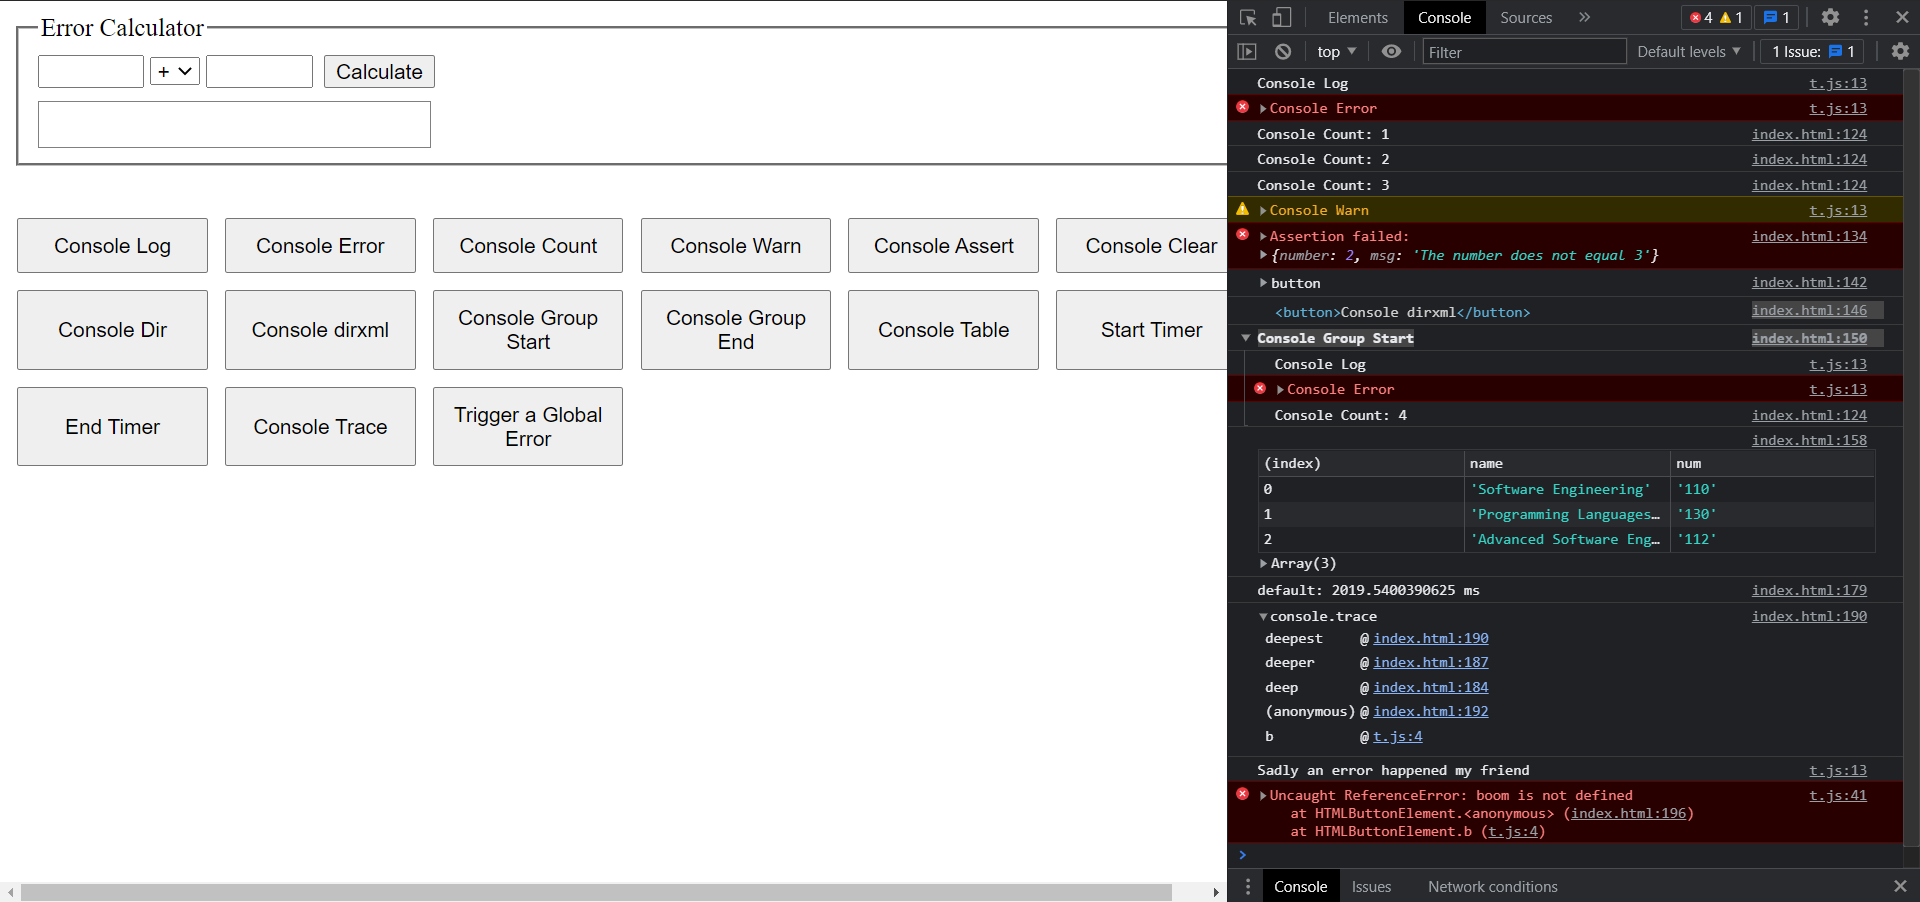
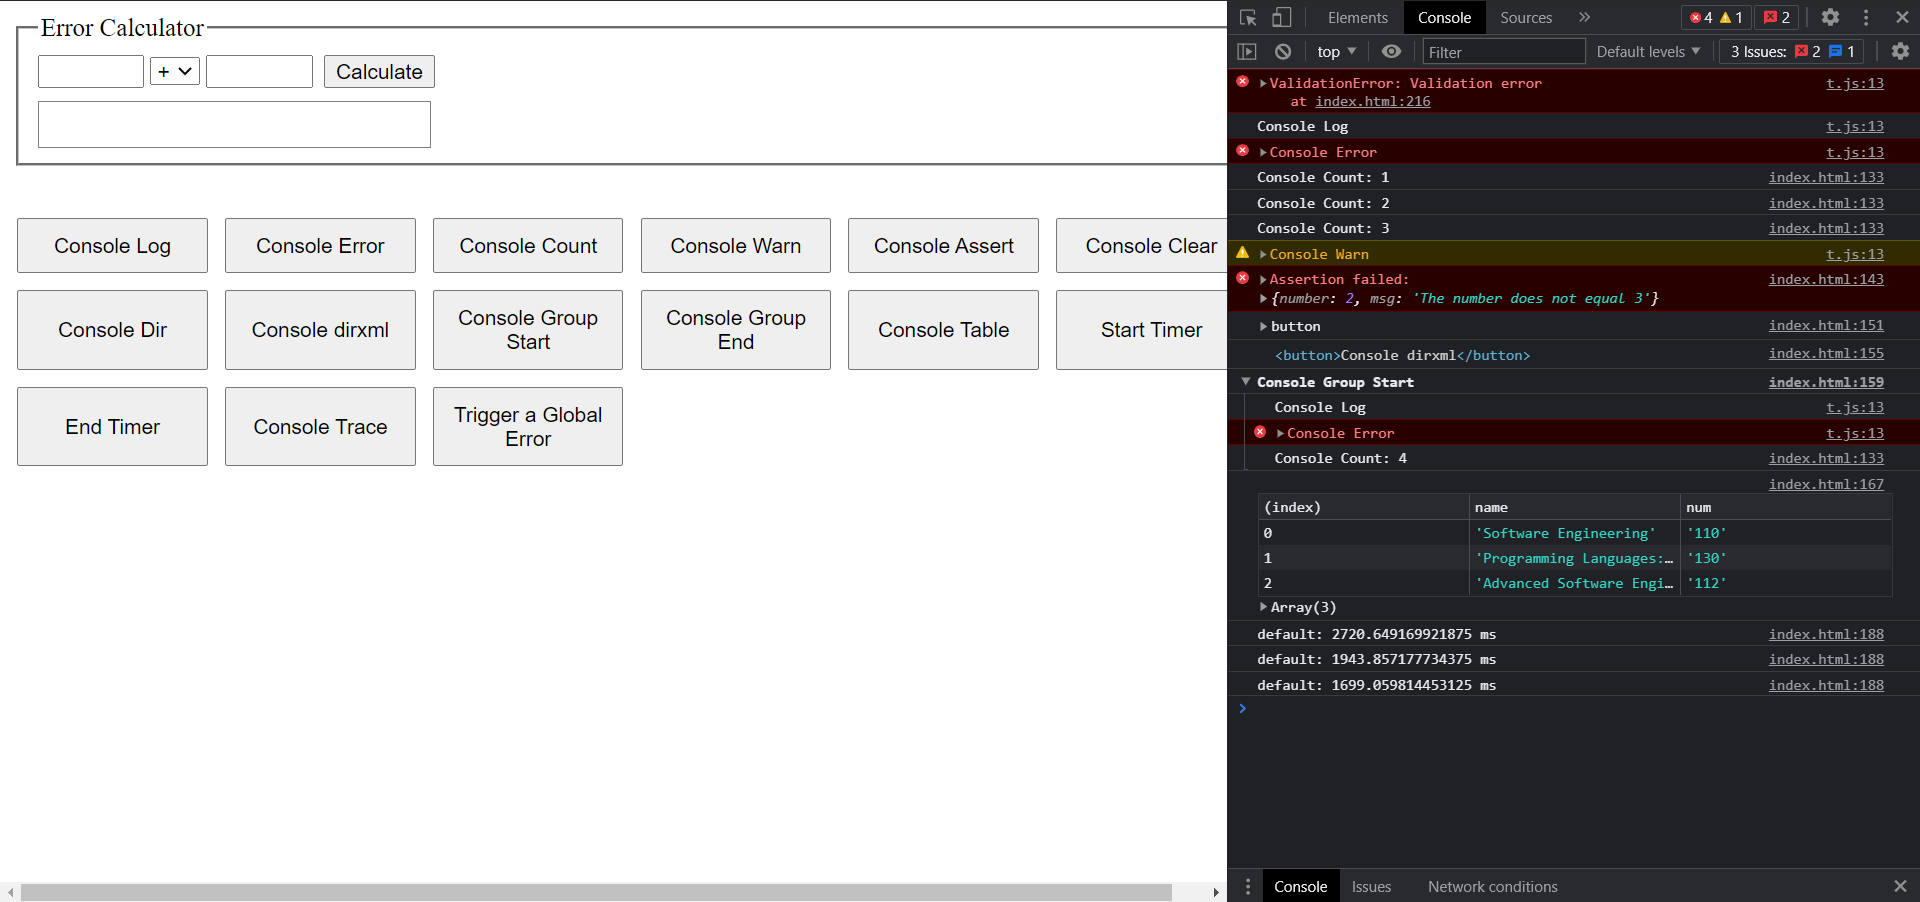
.

diff --git a/index.html b/index.html
@@ -104,30 +104,16 @@
       let firstNum = document.querySelector('#first-num').value;
       let secondNum = document.querySelector('#second-num').value;
       let operator = document.querySelector('#operator').value;
-      output.innerHTML = eval(`${firstNum} ${operator} ${secondNum}`);
-
+      
       try {
-        if(isNaN(firstNum))
-          throw new Error("Invalid firstNum");
+        output.innerHTML = eval(`${firstNum} ${operator} ${secondNum}`);
       } catch (err) {
-        console.error(err.message);
-        TrackJS.track('Invalid firstNum');
+        console.error("Invalid input");
+        TrackJS.track('Invalid input');
+      } finally {
+        console.log("Calculation check finished")
       }
       
-      class ValidationError extends Error {
-        constructor(message) {
-        super(message);
-        this.name = "ValidationError";
-        }
-      }
-
-      try {
-        if(isNaN(secondNum))
-          throw new ValidationError("Invalid secondNum");
-      } catch (err) {
-        console.error(err.message);
-        TrackJS.track('Invalid secondNum');
-      }
     });
 
     let errorBtns = Array.from(document.querySelectorAll('#error-btns > button'));
@@ -218,6 +204,20 @@
       errorBtns[14].addEventListener('click', function () {
         console.log(boom);
       })
+
+      class ValidationError extends Error {
+        constructor(message) {
+        super(message);
+        this.name = "ValidationError";
+        }
+      }
+
+      try {
+        throw new ValidationError("Validation error");
+      } catch (err) {
+        console.error(err);
+        TrackJS.track('Validation error');
+      }
 
       window.onerror = () => {
         console.log("Sadly an error happened my friend");
